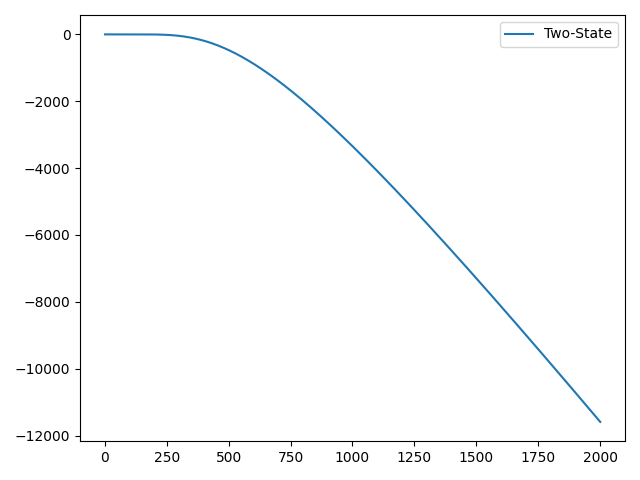
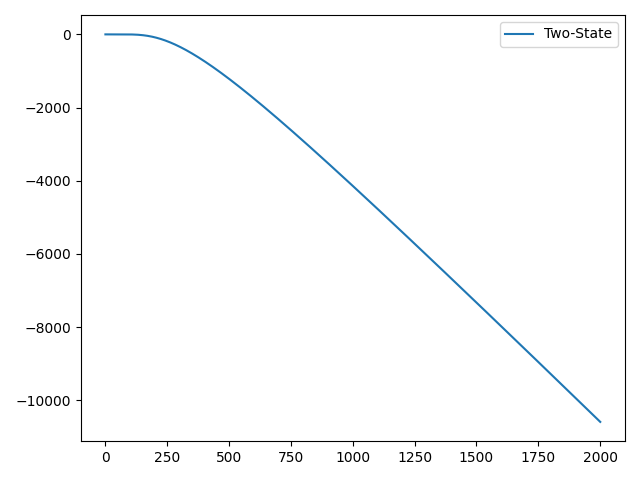
Updated two-state Cp to use symengine for calculating derivatives. Still not quite the same results as pycalphad, but much closer.

diff --git a/libreCalphad/models/segmented_regression.py b/libreCalphad/models/segmented_regression.py
@@ -61,34 +61,33 @@ def _twostate_Cp(T_arr, dE):
     g0 = 1
     g1 = 1
 
-    def _calc_twostate_Cp(T, dE):
-        if T == 0:
-            return 0
-        if isinstance(dE, list):
-            dE_sum = np.sum([dE[i] * T**i for i in range(len(dE))])
-            ddEdT = np.sum(
-                [dE[i + 1] * i * T ** (i - 1) for i in range(-1, len(dE) - 1)]
-            )
-            dH = -(T**2) * ddEdT
-            nom = R * (dE_sum / (R * T)) ** 2 * g0 / g1 * np.exp(dE_sum / (R * T))
-            num = (g0 / g1 * np.exp(dE_sum / (R * T)) + 1) ** 2
-            return nom / num
+    T = se.symbols("T")
+    if isinstance(dE, list):
+        dE = np.sum([dE[i] * T**i for i in range(len(dE))])
+
+    def _calc_twostate_Cp(temp, dE):
+        dH = -(T**2) * (dE / T).diff(T)
+        chi = se.exp(-dE / (R * T)) / (1 + se.exp(-dE / R * T))
+        twostate_Cp = np.float64((chi * dH.diff(T) + dH * chi.diff(T)).subs(T, temp))
+        return twostate_Cp
 
     if isinstance(T_arr, (int, float)):
         ret_arr = _calc_twostate_Cp(T_arr, dE)
     else:
         ret_arr = np.array([])
-        for T in T_arr:
-            ret_arr = np.append(ret_arr, _calc_twostate_Cp(T, dE))
+        for temp in T_arr:
+            ret_arr = np.append(ret_arr, _calc_twostate_Cp(temp, dE))
     ret_arr = np.nan_to_num(ret_arr)
     return ret_arr
 
 
 def _twostate_gibbs(T_arr, dE, ret_expr=False):
-    def _calc_twostate_gibbs(T, dE):
-        if isinstance(dE, list):
-            dE = np.sum([dE[i] * T**i for i in range(len(dE))])
-        return -R * T * np.log(1 + np.exp(-dE / (R * T)))
+    T = se.symbols("T")
+    if isinstance(dE, list):
+        dE = np.sum([dE[i] * T**i for i in range(len(dE))])
+
+    def _calc_twostate_gibbs(temp, dE):
+        return np.float64((-R * T * se.log(1 + se.exp(-dE / (R * T)))).subs(T, temp))
 
     def _sympy_twostate_gibbs(T, dE):
         if isinstance(dE, list):
@@ -101,8 +100,8 @@ def _twostate_gibbs(T_arr, dE, ret_expr=False):
         ret_arr = _sympy_twostate_gibbs(None, dE)
     else:
         ret_arr = np.array([])
-        for T in T_arr:
-            ret_arr = np.append(ret_arr, _calc_twostate_gibbs(T, dE))
+        for temp in T_arr:
+            ret_arr = np.append(ret_arr, _calc_twostate_gibbs(temp, dE))
     return ret_arr
 
 
@@ -548,9 +547,7 @@ def _xiong_gibbs(T_arr, beta, p, Tc, ret_expr=False):
 
 def _calc_RSE(model_array, Cp_array):
     num_SR_params = 5  # from the paper
-    return np.sqrt(
-        np.sum(np.square(np.nan_to_num((model_array - Cp_array) / Cp_array)))
-    )
+    return np.sqrt(np.sum(np.square(np.nan_to_num((model_array - Cp_array)))))
 
 
 def _fit_segmented_regression(x, arg_dict):
